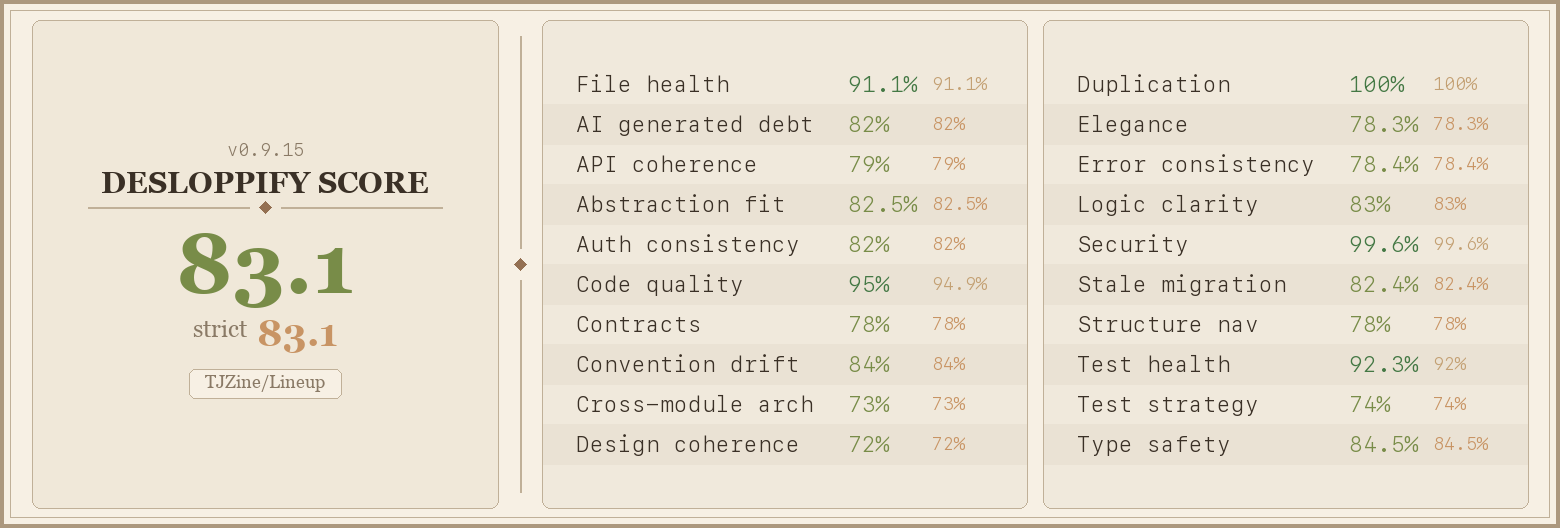
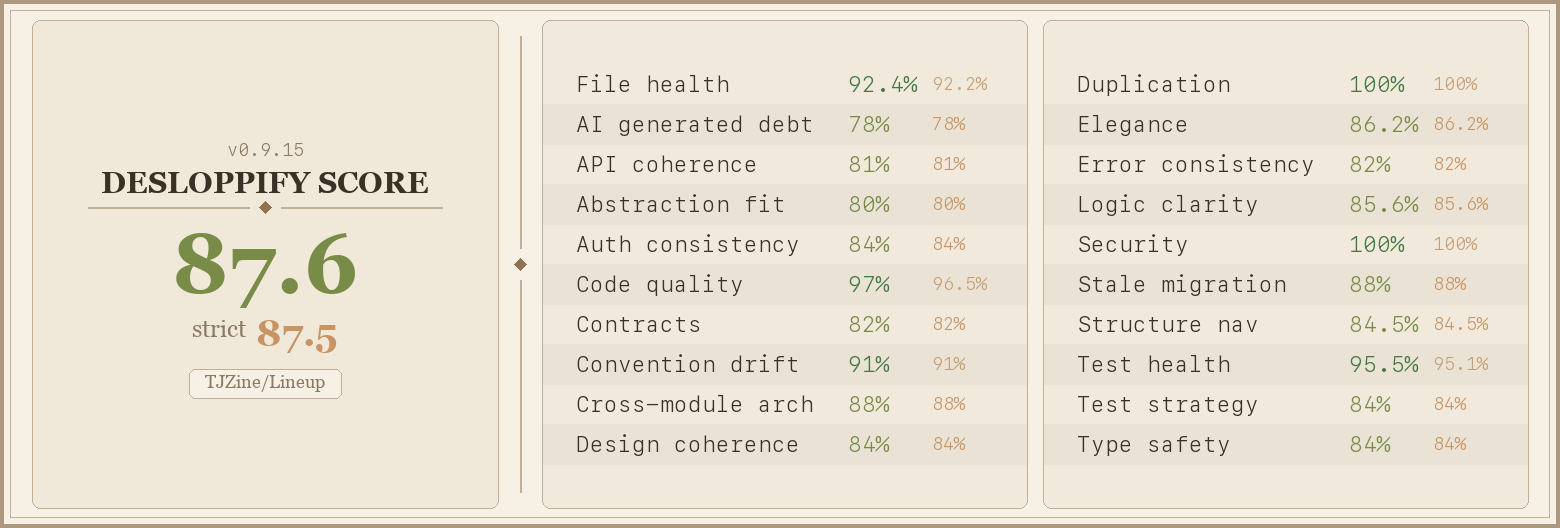
Close out Plex cleanup and clear detector lag

diff --git a/src/modules/plex/discovery/__tests__/discoveryProbe.test.ts b/src/modules/plex/discovery/__tests__/discoveryProbe.test.ts
@@ -1,0 +1,98 @@
+import { findFastestConnectionProbe } from '../discoveryProbe';
+import type { PlexConnectionProbeResult } from '../discoveryProbe';
+import type { MixedContentConfig } from '../types';
+import { createMockConnection, createMockServer } from './discoveryTestUtils';
+
+const defaultMixedContentConfig: MixedContentConfig = {
+    preferHttps: true,
+    tryHttpsUpgrade: true,
+    allowLocalHttp: true,
+    logWarnings: false,
+};
+
+describe('discoveryProbe', () => {
+    it('selects the first reachable probe from the mixed-content tier order', async () => {
+        const localHttpConnection = createMockConnection({
+            uri: 'http://192.168.1.20:32400',
+            protocol: 'http',
+            address: '192.168.1.20',
+        });
+        const remoteHttpsConnection = createMockConnection({
+            uri: 'https://plex.example:32400',
+            protocol: 'https',
+            address: 'plex.example',
+            local: false,
+        });
+        const server = createMockServer({
+            connections: [localHttpConnection, remoteHttpsConnection],
+        });
+
+        const probeConnection = jest.fn<Promise<PlexConnectionProbeResult>, [typeof localHttpConnection]>()
+            .mockResolvedValueOnce({ connection: remoteHttpsConnection, outcome: 'unreachable' })
+            .mockResolvedValueOnce({
+                connection: {
+                    ...localHttpConnection,
+                    uri: 'https://192.168.1.20:32400',
+                    protocol: 'https',
+                },
+                outcome: 'reachable',
+            });
+
+        const result = await findFastestConnectionProbe({
+            server,
+            mixedContentConfig: defaultMixedContentConfig,
+            probeConnection,
+        });
+
+        expect(probeConnection).toHaveBeenCalledTimes(2);
+        expect(result).toEqual({
+            selectedProbe: {
+                connection: expect.objectContaining({
+                    uri: 'https://192.168.1.20:32400',
+                    protocol: 'https',
+                }),
+                outcome: 'reachable',
+            },
+            authRequired: false,
+            authState: null,
+        });
+    });
+
+    it('keeps auth summary state when every probe fails', async () => {
+        const firstConnection = createMockConnection({
+            uri: 'http://192.168.1.21:32400',
+            protocol: 'http',
+            address: '192.168.1.21',
+        });
+        const secondConnection = createMockConnection({
+            uri: 'http://192.168.1.22:32400',
+            protocol: 'http',
+            address: '192.168.1.22',
+            port: 32401,
+        });
+        const server = createMockServer({
+            connections: [firstConnection, secondConnection],
+        });
+
+        const probeConnection = jest.fn<Promise<PlexConnectionProbeResult>, [typeof firstConnection]>()
+            .mockResolvedValueOnce({ connection: firstConnection, outcome: 'auth_required' })
+            .mockResolvedValueOnce({ connection: secondConnection, outcome: 'auth_invalid' });
+
+        const result = await findFastestConnectionProbe({
+            server,
+            mixedContentConfig: {
+                preferHttps: false,
+                tryHttpsUpgrade: false,
+                allowLocalHttp: true,
+                logWarnings: false,
+            },
+            probeConnection,
+        });
+
+        expect(result).toEqual({
+            selectedProbe: null,
+            authRequired: true,
+            authState: 'auth_invalid',
+        });
+    });
+});

diff --git a/src/modules/plex/library/mediaItemDetailsParser.ts b/src/modules/plex/library/mediaItemDetailsParser.ts
@@ -20,40 +20,10 @@ function assignOptionalMediaMetadata(item: PlexMediaItem, data: RawMediaItem): v
 }
 
 function assignMediaCredits(item: PlexMediaItem, data: RawMediaItem): void {
-    const genres = collectTagNames(data.Genre);
-    if (genres.length > 0) {
-        item.genres = genres;
-    }
-
-    const directors = collectTagNames(data.Director);
-    if (directors.length > 0) {
-        item.directors = directors;
-    }
-
-    const roles = parseArrayOrEmpty<unknown>(
-        data.Role,
-        'media item roles'
-    )
-        .map((entry, index) => parseRequiredObject<{ tag?: string; role?: string | null; thumb?: string | null }>(
-            entry,
-            `media item roles[${index}]`
-        ))
-        .map((entry) => ({
-            name: entry.tag?.trim() ?? '',
-            role: entry.role?.trim() ?? null,
-            thumb: entry.thumb ?? null,
-        }))
-        .filter((entry) => entry.name.length > 0);
-
-    if (roles.length > 0) {
-        item.actorRoles = roles;
-        item.actors = roles.map((role) => role.name);
-    }
-
-    const studios = collectTagNames(data.Studio);
-    if (studios.length > 0) {
-        item.studios = studios;
-    }
+    assignTagNames(item, 'genres', data.Genre);
+    assignTagNames(item, 'directors', data.Director);
+    assignActorRoles(item, data.Role);
+    assignTagNames(item, 'studios', data.Studio);
 }
 
 function assignClearLogo(item: PlexMediaItem, data: RawMediaItem): void {
@@ -94,6 +64,45 @@ function collectTagNames(tags: unknown): string[] {
         .map((tag, index) => parseRequiredObject<{ tag?: string }>(tag, `media item tags[${index}]`))
         .map((tag) => tag.tag)
         .filter((tag): tag is string => Boolean(tag));
+}
+
+function assignTagNames(
+    item: PlexMediaItem,
+    key: 'genres' | 'directors' | 'studios',
+    tags: unknown
+): void {
+    const names = collectTagNames(tags);
+
+    if (names.length > 0) {
+        item[key] = names;
+    }
+}
+
+function assignActorRoles(item: PlexMediaItem, roles: unknown): void {
+    const parsedRoles = parseActorRoles(roles);
+
+    if (parsedRoles.length > 0) {
+        item.actorRoles = parsedRoles;
+        item.actors = parsedRoles.map((role) => role.name);
+    }
+}
+
+function parseActorRoles(
+    roles: unknown
+): Array<{ name: string; role: string | null; thumb: string | null }> {
+    return parseArrayOrEmpty<unknown>(roles, 'media item roles')
+        .map((entry, index) =>
+            parseRequiredObject<{ tag?: string; role?: string | null; thumb?: string | null }>(
+                entry,
+                `media item roles[${index}]`
+            )
+        )
+        .map((entry) => ({
+            name: entry.tag?.trim() ?? '',
+            role: entry.role?.trim() ?? null,
+            thumb: entry.thumb ?? null,
+        }))
+        .filter((entry) => entry.name.length > 0);
 }
 
 function assignOptional<K extends keyof PlexMediaItem>(

diff --git a/src/modules/plex/library/__tests__/parserValidation.test.ts b/src/modules/plex/library/__tests__/parserValidation.test.ts
@@ -1,0 +1,27 @@
+import { PlexLibraryError } from '../PlexLibraryError';
+import {
+    parseArrayOrEmpty,
+    parseRequiredArray,
+    parseRequiredObject,
+} from '../parserValidation';
+
+describe('parserValidation', () => {
+    it('returns objects and required arrays unchanged when the payload shape is valid', () => {
+        const objectValue = { key: 'value' };
+        const arrayValue = ['one', 'two'];
+
+        expect(parseRequiredObject<typeof objectValue>(objectValue, 'object')).toEqual(objectValue);
+        expect(parseRequiredArray<string>(arrayValue, 'array')).toEqual(arrayValue);
+    });
+
+    it('returns an empty array for nullable optional array payloads', () => {
+        expect(parseArrayOrEmpty<string>(undefined, 'optional array')).toEqual([]);
+        expect(parseArrayOrEmpty<string>(null, 'optional array')).toEqual([]);
+    });
+
+    it('throws a typed parse error when required object or array payloads are malformed', () => {
+        expect(() => parseRequiredObject<string>(null, 'object')).toThrow(PlexLibraryError);
+        expect(() => parseArrayOrEmpty<string>({}, 'optional array')).toThrow(PlexLibraryError);
+        expect(() => parseRequiredArray<string>({}, 'required array')).toThrow(PlexLibraryError);
+    });
+});

diff --git a/src/modules/plex/library/mediaItemBaseParser.ts b/src/modules/plex/library/mediaItemBaseParser.ts
@@ -5,11 +5,25 @@ import { mapMediaType } from './mediaTypeParser';
 
 export function buildBaseMediaItem(data: RawMediaItem): PlexMediaItem {
     return {
+        ...buildMediaIdentity(data),
+        ...buildMediaMetadata(data),
+    };
+}
+
+function buildMediaIdentity(data: RawMediaItem): Pick<PlexMediaItem, 'ratingKey' | 'key' | 'type' | 'title' | 'sortTitle'> {
+    return {
         ratingKey: data.ratingKey,
         key: data.key,
         type: mapMediaType(data.type),
         title: data.title,
         sortTitle: data.titleSort ?? data.title,
+    };
+}
+
+function buildMediaMetadata(
+    data: RawMediaItem
+): Pick<PlexMediaItem, 'summary' | 'year' | 'durationMs' | 'addedAt' | 'updatedAt' | 'thumb' | 'art' | 'viewOffset' | 'viewCount' | 'media'> {
+    return {
         summary: data.summary ?? '',
         year: data.year ?? 0,
         durationMs: data.duration ?? 0,

diff --git a/ARCHITECTURE_CLEANUP_CHECKLIST.md b/ARCHITECTURE_CLEANUP_CHECKLIST.md
@@ -15,8 +15,8 @@ This checklist is not complete until an authoritative rerun on the target integr
 - Last structural refresh: `2026-04-16`
 - Prior completed ledger: `docs/archive/checklists/2026-04-16-architecture-cleanup-checklist-wave-4.md`
 - Current execution state: `P1-W1`, `P1-EXIT`, `P2-W1`, and `P2-EXIT` are complete on authoritative `2026-04-18` closeout evidence; `P3` remains not started, and no `P3` implementation or tracked plan doc has begun yet
-- Next safe start: `P3-W1` / `pkg_plex_contracts_identity`
-- Preferred launcher: `cleanup-loop` for checklist-linked cleanup orchestration, keeping planning and package closeout scoped to `P3-W1`
+- Next safe start: `P4-W1` / `pkg_startup_auth_lifecycle`
+- Preferred launcher: `cleanup-loop` for checklist-linked cleanup orchestration, keeping planning and package closeout scoped to `P4-W1`
 - First action at package start: planning only; create the package-local execution-grade plan first and do not begin implementation until that planning gate is complete
 - Authoritative evidence rule: only integration-branch `desloppify` reruns may change backlog status, package completion claims, exit records, or closeout claims
 - Exact issue-membership surface: `docs/architecture/active-cleanup-package-map.json`
@@ -288,7 +288,7 @@ Every `P#-EXIT` must, in the same pass:
 - Follow-ups: preserve the stale-proven rows above unless future current-source changes invalidate their proof; `P3-W1` is now the next safe start
 - Handoff: `P2-EXIT` closed on authoritative `2026-04-18` final-gate evidence; proceed to `P3-W1`
 
-### [ ] `P3-W1` `pkg_plex_contracts_identity` Plex Contracts And Identity
+### [x] `P3-W1` `pkg_plex_contracts_identity` Plex Contracts And Identity
 
 - Backlog: `19 = 11 older live non-review + 6 fresh review + 2 fresh non-review`
 - Scope: normalize Plex discovery, library, auth, and identity/error seams under one Plex-owned package
@@ -298,23 +298,59 @@ Every `P#-EXIT` must, in the same pass:
   - `desloppify show src/modules/plex/library --status open --no-budget --top 150`
   - `desloppify show src/modules/plex/auth --status open --no-budget --top 150`
   - `desloppify show test_coverage --status open --no-budget --top 120`
-- Status: not started
-- Plan: none yet
-- Last touched: not started
-- Verification: not run
-- Follow-ups: none yet
-- Handoff: Start with `P3-W1` planning, not implementation. Keep the package boundary centered on `pkg_plex_contracts_identity`: `src/modules/plex/discovery`, `src/modules/plex/library`, `src/modules/plex/auth`, plus the platform-identity seams directly owned by Plex startup or stream setup. Do not absorb startup-profile lifecycle semantics except where `PlexAuth` or Plex-owned identity seams force that boundary to be touched; coordinate with `P4` or `P5` only if those downstream boundaries are directly implicated by the current-source evidence. At package entry, rerun the package-local scoping commands listed above before writing the local execution plan so the fresh session scopes from current authoritative evidence.
+- Status: completed
+- Plan: `docs/plans/2026-04-18-p3-w1-plex-contracts-identity.md`
+- Last touched: `2026-04-18`
+- Verification: authoritative closeout evidence on `2026-04-18` reran `desloppify show src/modules/plex/discovery --status open --no-budget --top 120`, `desloppify show src/modules/plex/library --status open --no-budget --top 150`, `desloppify show src/modules/plex/auth --status open --no-budget --top 150`, and `desloppify show test_coverage --status open --no-budget --top 120`; observed passing `npm test -- --runInBand src/modules/plex/discovery/__tests__/discoveryProbe.test.ts`; observed passing `npm test -- --runInBand src/modules/plex/library/__tests__/mediaItemInternals.test.ts src/modules/plex/library/__tests__/mediaFileParser.test.ts src/modules/plex/library/__tests__/libraryResponsePayload.test.ts src/modules/plex/library/__tests__/PlexLibraryError.test.ts`; and observed passing `npm run verify`
+- Follow-ups: `P3-EXIT` must preserve the stale-proven detector rows below unless future current-source changes invalidate their proof
+- Handoff: `P3-EXIT`
 
-- [ ] `P3-EXIT`
+- [x] `P3-EXIT`
 
   - required: record every mapped imported issue with an exact disposition, assign one single final owner for every deferred or split follow-up, and record the package score delta before moving to `P4`
   - required: refresh package-local commands, record mapped review dispositions from `pkg_plex_contracts_identity`, record detector deltas and security triage, and either post a score delta or assign one exact later owner for every survivor
-- Status: not started
-- Plan: none yet
-- Last touched: not started
-- Verification: not run
-- Follow-ups: none yet
-- Handoff: `P4-W1`
+- Status: completed
+- Plan: `docs/plans/2026-04-18-p3-w1-plex-contracts-identity.md`
+- Last touched: `2026-04-18`
+- Verification: `P3-EXIT` evidence on `2026-04-18` reran `desloppify status`, `desloppify plan queue --sort recent`, `desloppify show review --status open --no-budget --top 100`, `desloppify show security --status open --no-budget --top 50`, the six exact imported-review reruns for `review::.::holistic::{api_surface_coherence::{plex_discovery_scalar_test_result,plex_library_failure_contract_drift},error_consistency::{plex_auth_pin_parsing_bypasses_typed_errors,plex_auth_poll_timeout_masks_retryable_failures,plex_library_null_results_mask_fetch_failures},initialization_coupling::platform_version_first_probe_cache}`, the package-local scoping commands for `src/modules/plex/{discovery,library,auth}` plus `test_coverage`, the exact reruns for `test_coverage::src/modules/plex/discovery/discoveryProbe.ts::transitive_only` and `smells::src/modules/plex/library/mediaItemBaseParser.ts::high_cyclomatic_complexity`, the focused Jest commands recorded in `P3-W1`, and a passing `npm run verify`
+- Entry baseline: checklist-backed package entry was `19 = 11 older live non-review + 6 fresh review + 2 fresh non-review` with the `P2-EXIT` global snapshot `overall 87.5 / objective 96.1 / strict 87.5 / verified 94.1`, `324` open in-scope, `333` open global, and `9` out-of-scope carried
+- Exit baseline: authoritative `desloppify status` rerun in this session reports `overall 87.5 / objective 96.0 / strict 87.5 / verified 94.0`, `340` open in-scope, `349` open global, and `9` out-of-scope carried; `desloppify plan queue --sort recent` is empty; `desloppify show review --status open --no-budget --top 100` returns no open review issues; and `desloppify show security --status open --no-budget --top 50` remains clean
+- Score delta: global `overall 0.0`, `objective -0.1`, `strict 0.0`, and `verified -0.1` versus the checklist-backed entry snapshot. `P3-EXIT` closes anyway because every mapped `pkg_plex_contracts_identity` review issue reran absent and every remaining discovery/library detector row is `stale-proven` on current source with no successor owner
+- Imported review dispositions: reran absent on `2026-04-18`, treated as `resolved` on current source
+  - `review::.::holistic::api_surface_coherence::plex_discovery_scalar_test_result`
+    - reason: exact issue-id rerun no longer reports an open review row after `P3-W1-S2`, and the current discovery seam keeps typed internal probe results behind the unchanged outward discovery contract
+    - revisit trigger: exact issue-id rerun plus `rg -n "testConnection\\(|findFastestConnection\\(|selectServer\\(" docs/api/plex-integration.md src/modules/plex/discovery/interfaces.ts src/modules/plex/discovery`
+  - `review::.::holistic::api_surface_coherence::plex_library_failure_contract_drift`
+    - reason: exact issue-id rerun no longer reports an open review row after `P3-W1-S3`, and current library entrypoints keep malformed/transport/server failures in typed `PlexLibraryError` paths instead of semantic empties
+    - revisit trigger: exact issue-id rerun plus `rg -n "_fetchWithRetry<|return null;|return \\[\\];|PlexLibraryError" src/modules/plex/library`
+  - `review::.::holistic::error_consistency::plex_auth_pin_parsing_bypasses_typed_errors`
+    - reason: exact issue-id rerun no longer reports an open review row after `P3-W1-S1`, and auth PIN parsing now routes malformed success payloads through typed Plex auth error handling
+    - revisit trigger: exact issue-id rerun plus `rg -n "parsePinResponse\\(" src/modules/plex/auth`
+  - `review::.::holistic::error_consistency::plex_auth_poll_timeout_masks_retryable_failures`
+    - reason: exact issue-id rerun no longer reports an open review row after `P3-W1-S1`, and `pollForPin()` no longer collapses retryable failure context into a terminal timeout-only classification
+    - revisit trigger: exact issue-id rerun plus `rg -n "pollForPin\\(" src/modules/plex/auth`
+  - `review::.::holistic::error_consistency::plex_library_null_results_mask_fetch_failures`
+    - reason: exact issue-id rerun no longer reports an open review row after `P3-W1-S3`, and current library parse/fetch helpers keep failure cases in typed error flows rather than `null`/empty sentinel returns
+    - revisit trigger: exact issue-id rerun plus `rg -n "return null;|return \\[\\];|PlexLibraryError" src/modules/plex/library`
+  - `review::.::holistic::initialization_coupling::platform_version_first_probe_cache`
+    - reason: exact issue-id rerun no longer reports an open review row after `P3-W1-S1`, and Plex startup plus stream identity now consume one platform-owned version source instead of split auth-vs-stream probing
+    - revisit trigger: exact issue-id rerun plus `rg -n "platformVersion|detectPlatformVersion\\(" src/modules/plex src/platform src/core/app-shell`
+- Detector deltas: entry mapped package counts were `review 6 / structural 6 / smells 6 / responsibility_cohesion 1`; refreshed exit reads are `review 0`, `src/modules/plex/auth` clean, `src/modules/plex/discovery` with `2` rerun-open rows, `src/modules/plex/library` with `8` rerun-open rows, and `desloppify show test_coverage --status open --no-budget --top 120` still listing the same six Plex helper transitive-only rows beside unrelated repo rows. Current-source reconciliation proves those remaining Plex rows are detector lag, not live `P3-W1` debt:
+  - `test_coverage::src/modules/plex/discovery/discoveryProbe.ts::transitive_only`
+    - reason: stale-proven; current direct test file `src/modules/plex/discovery/__tests__/discoveryProbe.test.ts` (lines `1-98`) imports `findFastestConnectionProbe` directly and exercises both mixed-content selection and auth-summary outcomes, but the rerun still reports “No direct tests”
+    - revisit trigger: rerun the exact issue id if direct `discoveryProbe` coverage is removed or remapped
+  - `smells::src/modules/plex/discovery/discoveryProbe.ts::async_no_await`
+    - reason: stale-proven; the reported anchor is current line `18`, but `src/modules/plex/discovery/discoveryProbe.ts` awaits `probeConnection(connection)` at line `33`, so the current source does not match the detector wording
+    - revisit trigger: rerun the exact issue id if `findFastestConnectionProbe()` is rewritten to a new async control-flow shape
+  - library helper `transitive_only` rows on `PlexLibraryError.ts`, `libraryResponsePayload.ts`, `mediaFileParser.ts`, `mediaItemCoreParser.ts`, and `mediaItemDetailsParser.ts`
+    - reason: stale-proven; direct tests import each helper directly via `src/modules/plex/library/__tests__/PlexLibraryError.test.ts`, `src/modules/plex/library/__tests__/libraryResponsePayload.test.ts`, `src/modules/plex/library/__tests__/mediaFileParser.test.ts`, and `src/modules/plex/library/__tests__/mediaItemInternals.test.ts`, but the reruns still report “No direct tests”
+    - revisit trigger: rerun the exact issue ids if those direct helper tests are removed or remapped
+  - `smells::src/modules/plex/library/mediaItemCoreParser.ts::high_cyclomatic_complexity`, `smells::src/modules/plex/library/mediaItemBaseParser.ts::high_cyclomatic_complexity`, and `smells::src/modules/plex/library/mediaItemParser.ts::high_cyclomatic_complexity`
+    - reason: stale-proven; `src/modules/plex/library/mediaItemCoreParser.ts` is a straight parse-build-apply pipeline, `src/modules/plex/library/mediaItemBaseParser.ts` is now a thin wrapper over `buildMediaIdentity()` and `buildMediaMetadata()`, and `src/modules/plex/library/mediaItemParser.ts` is a `parseArrayOrEmpty(...).map(...)` wrapper whose reported anchor `21` is impossible on current source
+    - revisit trigger: rerun the exact issue ids if those helpers regrow branching logic or merge back into a larger parser hotspot
+- Security triage: `desloppify show security --status open --no-budget --top 50` remained clean with no open security or cycle issues
+- Follow-ups: preserve the stale-proven discovery/library detector rows above unless future current-source changes invalidate their proof; no deferred or split successor owner remains after `P3-EXIT`
+- Handoff: `P4` remained blocked until this `P3-EXIT` record was completed. With `P3-EXIT` now complete on authoritative `2026-04-18` evidence, `P4-W1` is unblocked and is the next safe checklist start
 
 ### [ ] `P4-W1` `pkg_startup_auth_lifecycle` Startup, Auth, Profile, And Lifecycle State
 
